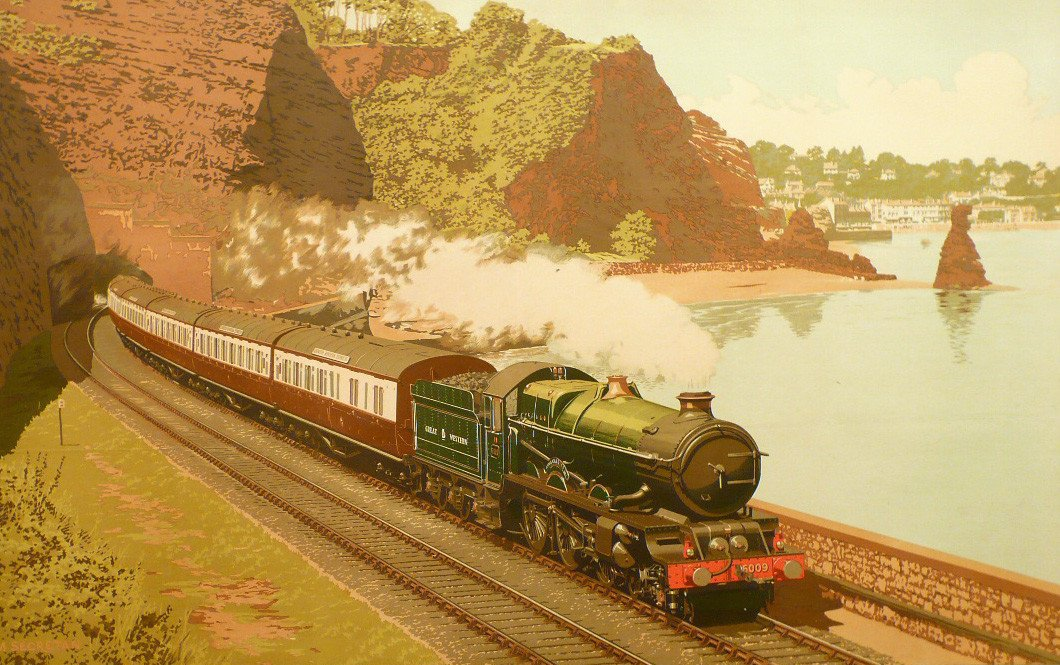
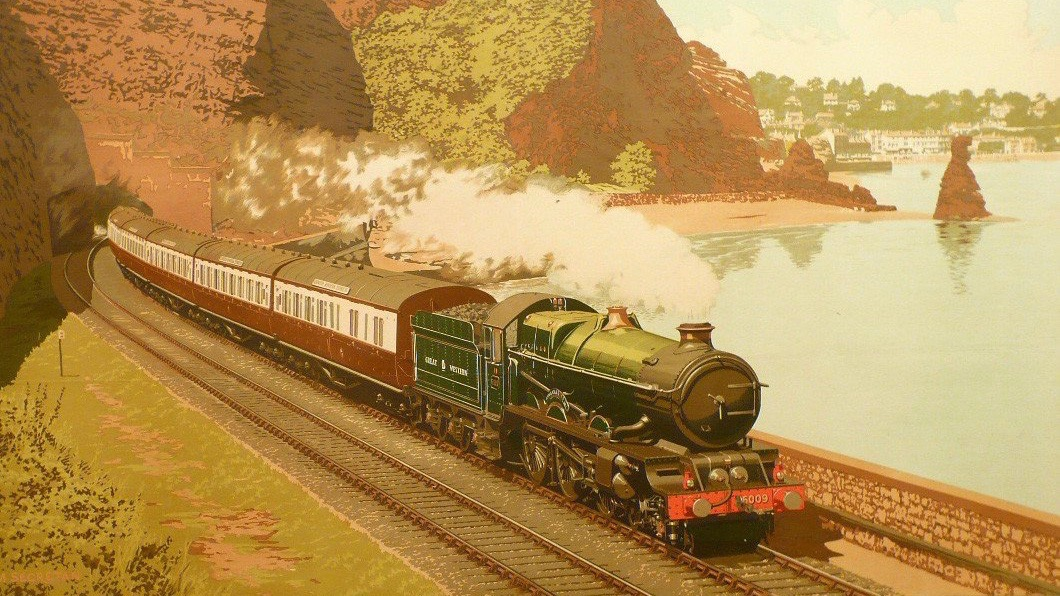
Aspect ratio fixes

diff --git a/index.html b/index.html
@@ -39,12 +39,12 @@
 
   <div class="container">
     <main>
-      <div class="row" id="main">
+      <div class="row">
         <div class="col s12">
           <div class="card-panel grey darken-1">
             <div class="row">
               <div class="col s12 m6">
-                <div class="card hoverable">
+                <div class="card hoverable" id="top">
                   <div class="card-image">
                     <img src="images/va.jpg" class="preview">
                     <span class="card-title">2018 ACC Tournament</span>
@@ -63,7 +63,7 @@
                 </div>
               </div>
               <div class="col s12 m6">
-                <div class="card hoverable">
+                <div class="card hoverable" id="top">
                   <div class="card-image">
                     <img src="images/ronaldinho.jpg" class="preview">
                     <span class="card-title">Soccer Legends</span>
@@ -123,11 +123,11 @@
                 </div>
               </div>
             </div><!-- /.row -->
-            <div class="row" id="bottom">
+            <div class="row">
               <div class="col s12 m6">
-                <div class="card hoverable">
+                <div class="card hoverable" id="bottom">
                   <div class="card-image">
-                    <img src="images/node.png" class="preview">
+                    <img src="images/node.jpg" class="preview">
                     <span class="card-title"></span>
                     <!-- <span class="card-title">Spotify Song Search</span> -->
                     <a
@@ -145,9 +145,9 @@
                 </div>
               </div>
               <div class="col s12 m6">
-                <div class="card hoverable">
+                <div class="card hoverable" id="bottom">
                   <div class="card-image">
-                    <img src="images/mysql.png" class="preview">
+                    <img src="images/mysql.jpg" class="preview">
                     <span class="card-title"></span>
                     <!-- <span class="card-title">Bamazon</span> -->
                     <a
@@ -164,10 +164,10 @@
                   </div>
                 </div>
               </div>
-            </div><!-- /#bottom.row -->
+            </div><!-- /.row -->
           </div>
         </div>
-      </div><!-- /#main.row -->
+      </div><!-- /.row -->
     </main>
   </div><!-- /.container -->
 

diff --git a/css/style.css b/css/style.css
@@ -1,26 +1,29 @@
-div.nav-wrapper.teal.darken-1 {
-  padding: 0 4rem;
+body {
+  background-color: lightgrey;
 }
 
-div#main.row,
-div#bottom.row {
-  margin-bottom: 0;
+div.nav-wrapper.teal.darken-1 {
+  padding: 0 4.5rem;
+}
+
+.col .row {
+  margin: 0;
+}
+
+div.col.s12 {
+  padding: 0;
 }
 
 div.card-panel.grey.darken-1 {
-  margin: 2rem 0;
+  margin: 1.5rem 0;
+  padding: 0.5rem;
 }
 
-.card {
-  margin: .5rem 0;
-}
-
-img.preview {
-  width: 20rem;
-  height: 20rem;
+div.card.hoverable {
+  margin: 0.5rem;
 }
 
 /* img.icon {
-  width: 4rem;
-  height: 4rem;
+  width: 4.5rem;
+  height: 4.5rem;
 } */
